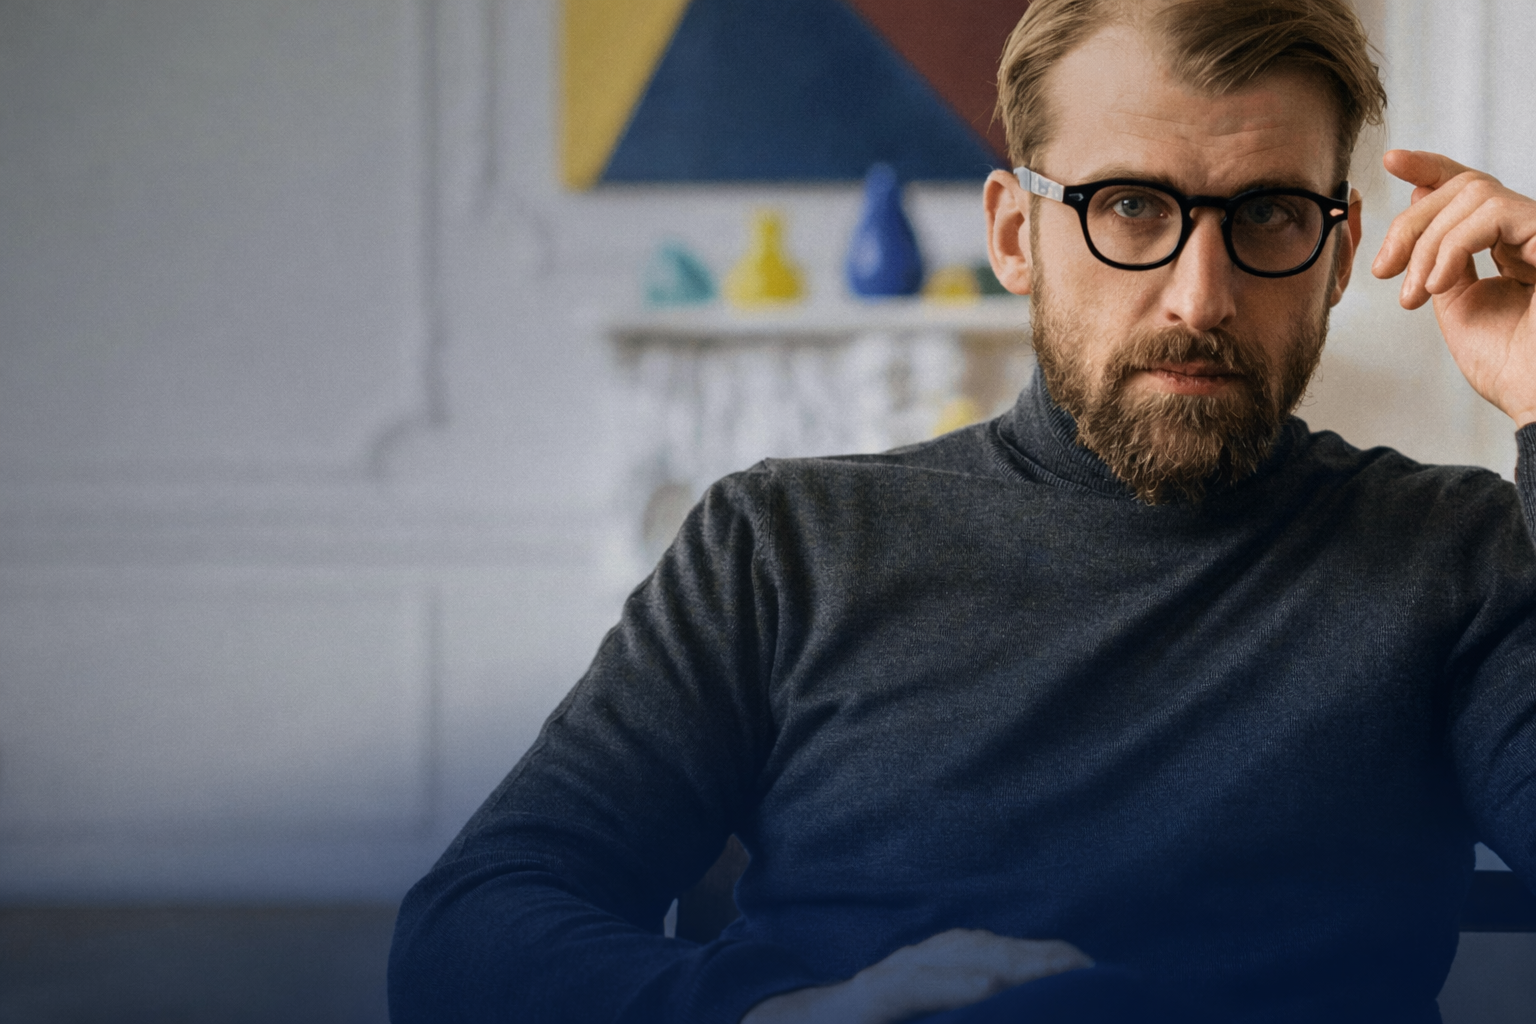
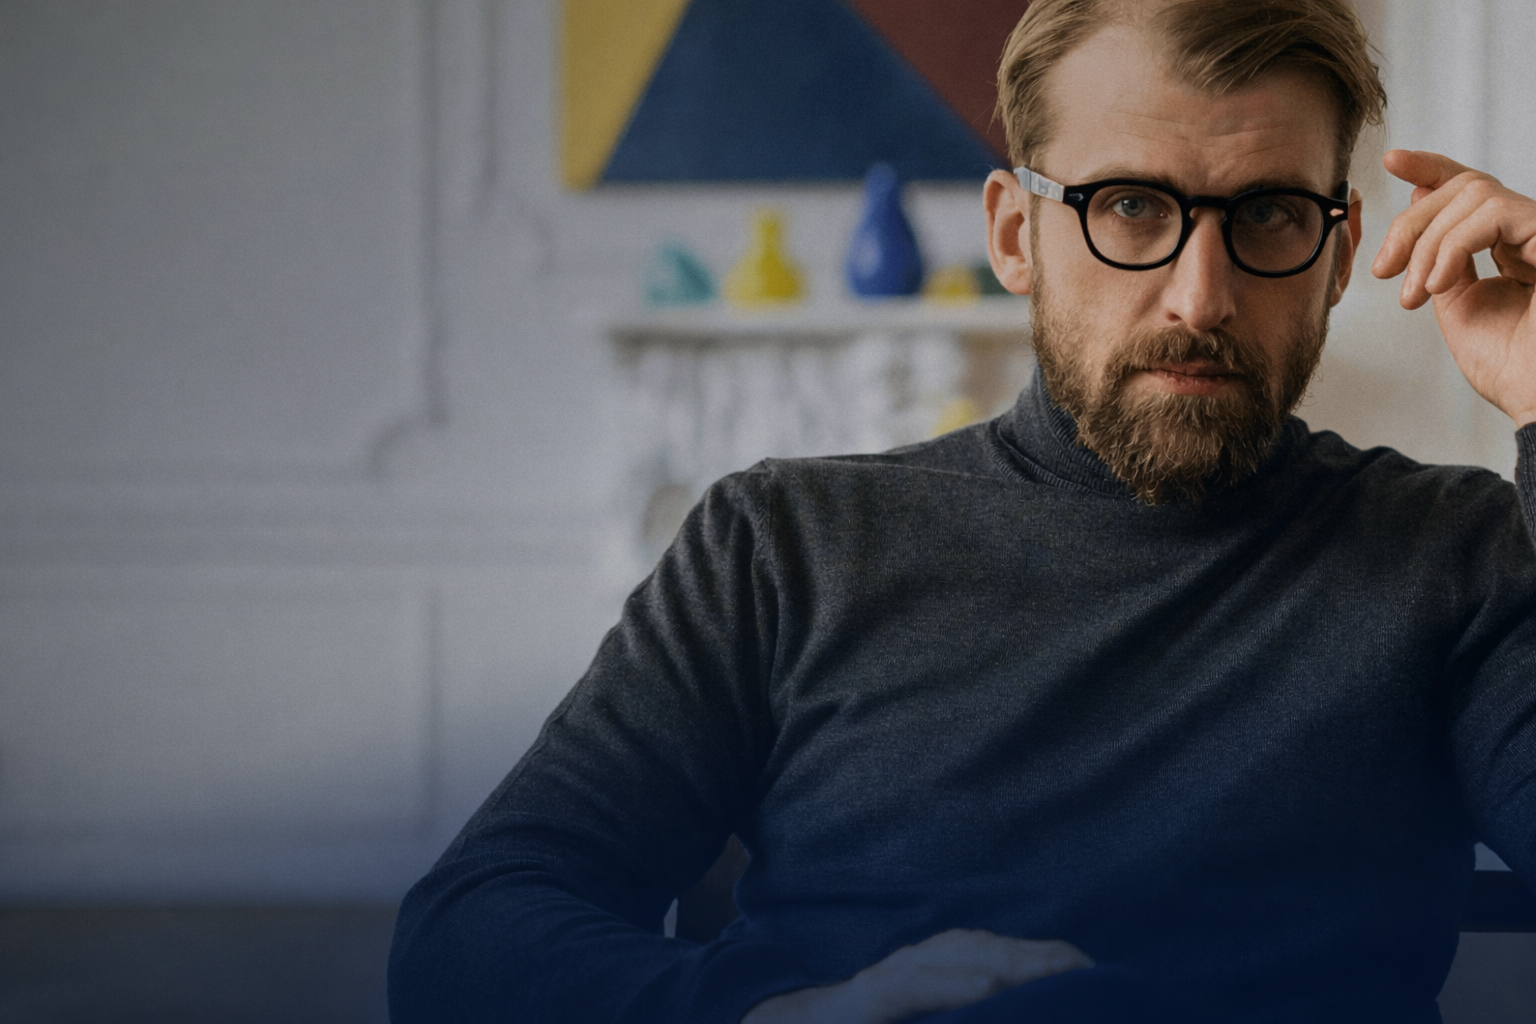
more photos and colorfull photos

Changed region(s): [[0.1875, 0.0, 0.8125, 0.6875], [0.8438, 0.0, 1.0, 0.4688], [0.375, 0.0625, 0.4062, 0.125]]

diff --git a/src/app/components/Header.tsx b/src/app/components/Header.tsx
@@ -48,16 +48,7 @@ export function Header() {
         <div className="flex items-center justify-between h-16">
           {/* Logo/Brand */}
           <Link to="/" className="flex items-center gap-3">
-            <img src="/photos/logo-icon.png" alt="INSITE" className="h-8 w-8 object-contain" />
-            <div
-              className="text-xl font-bold"
-              style={{
-                fontFamily: 'Montserrat, sans-serif',
-                color: '#0B2A45'
-              }}
-            >
-              INSITE
-            </div>
+            <img src="/photos/logo-name.png" alt="INSITE" className="h-12.5 w-auto object-contain" />
           </Link>
 
           {/* Navigation */}

diff --git a/src/app/components/Hero.tsx b/src/app/components/Hero.tsx
@@ -19,7 +19,7 @@ export function Hero() {
         <div
           className="absolute inset-0"
           style={{
-            backgroundImage: "url('/photos/foto-fundo-main-people.png')",
+            backgroundImage: "url('/photos/capa-tres.peoples-escura.png')",
             backgroundSize: 'cover',
             backgroundPosition: 'center',
             backgroundRepeat: 'no-repeat',
